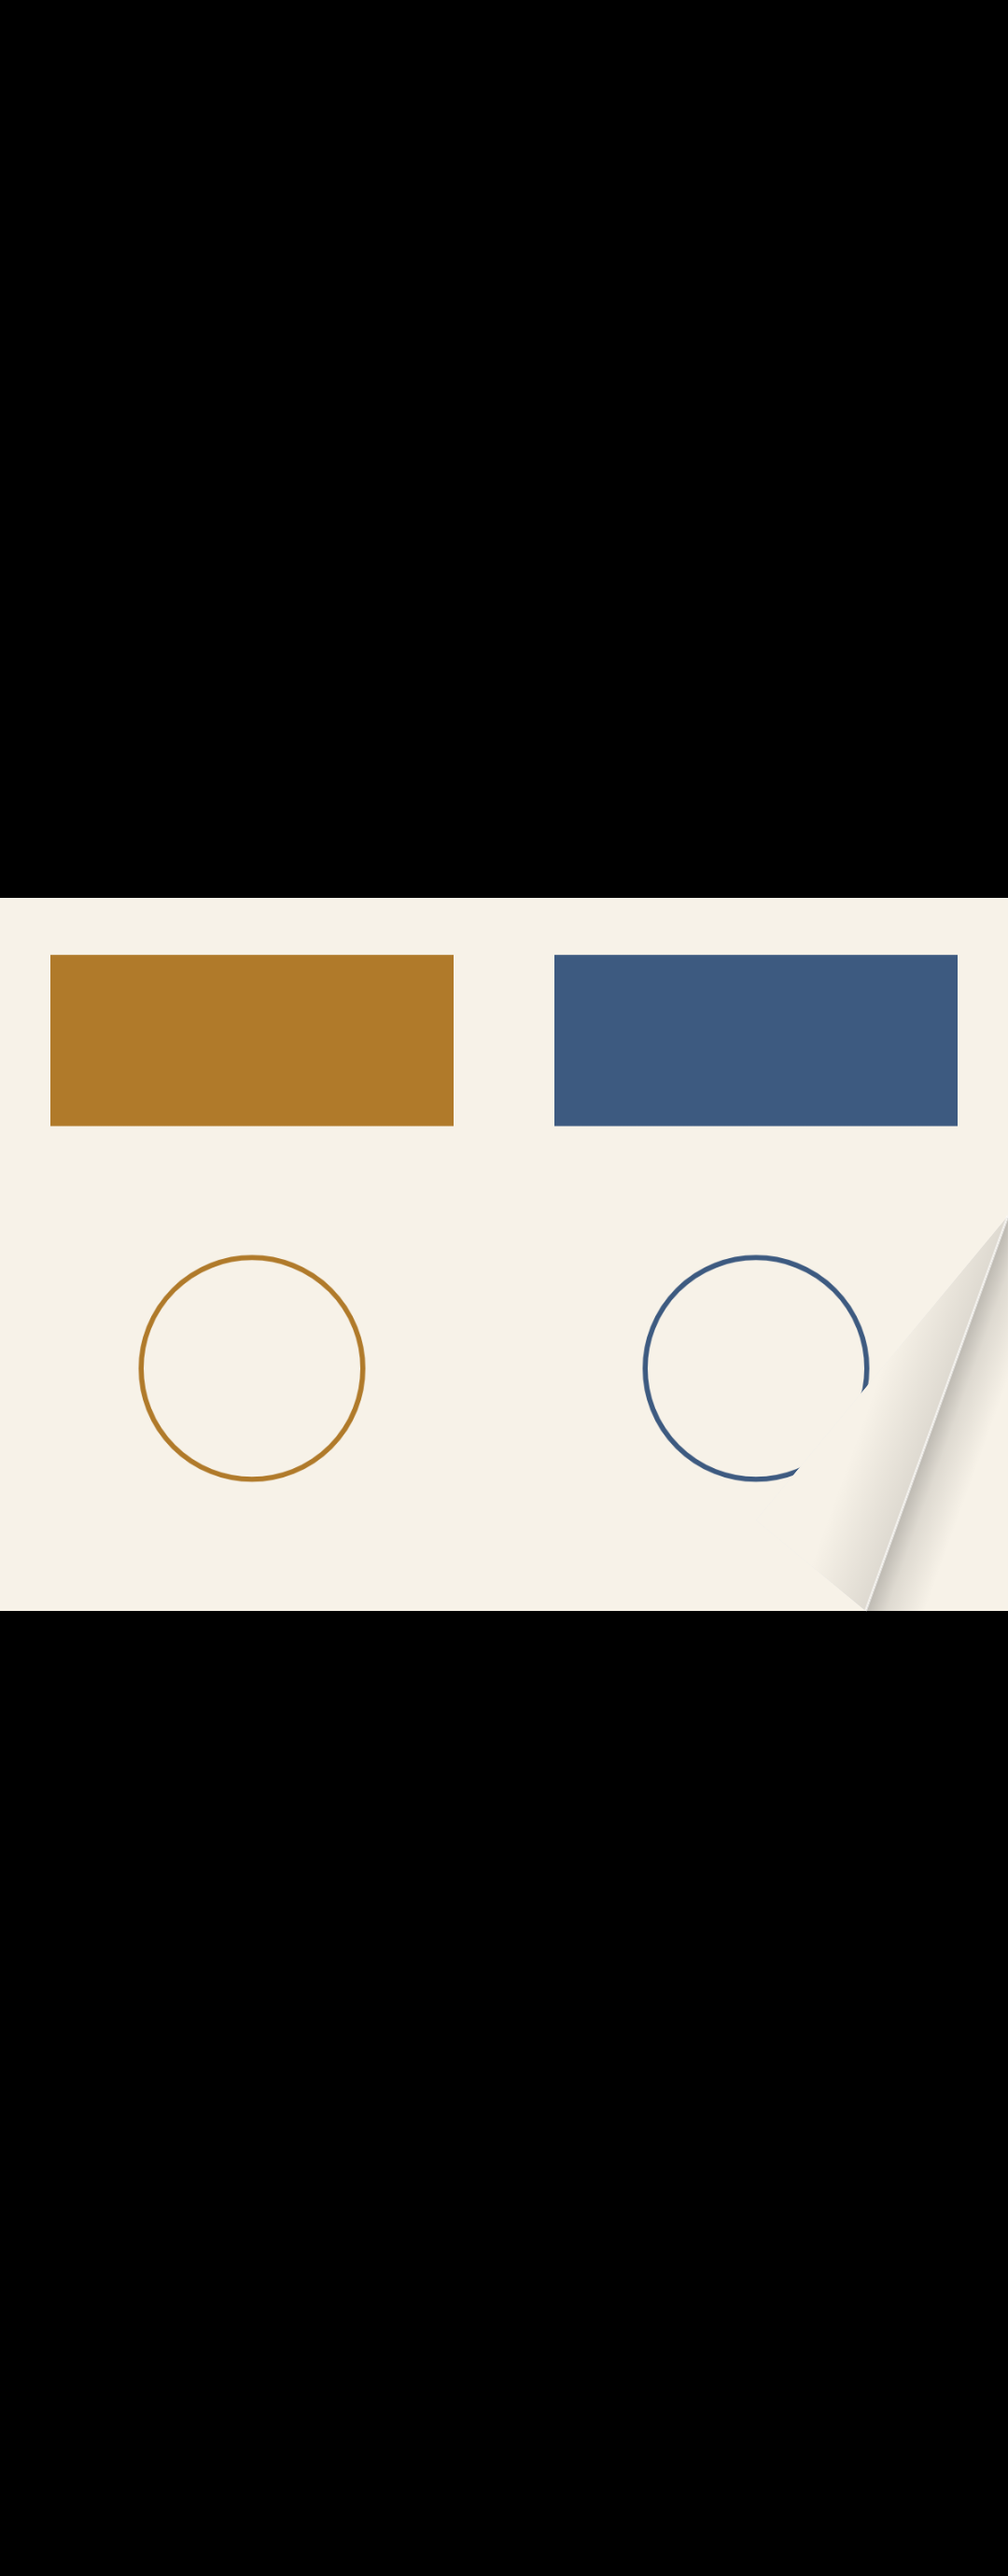
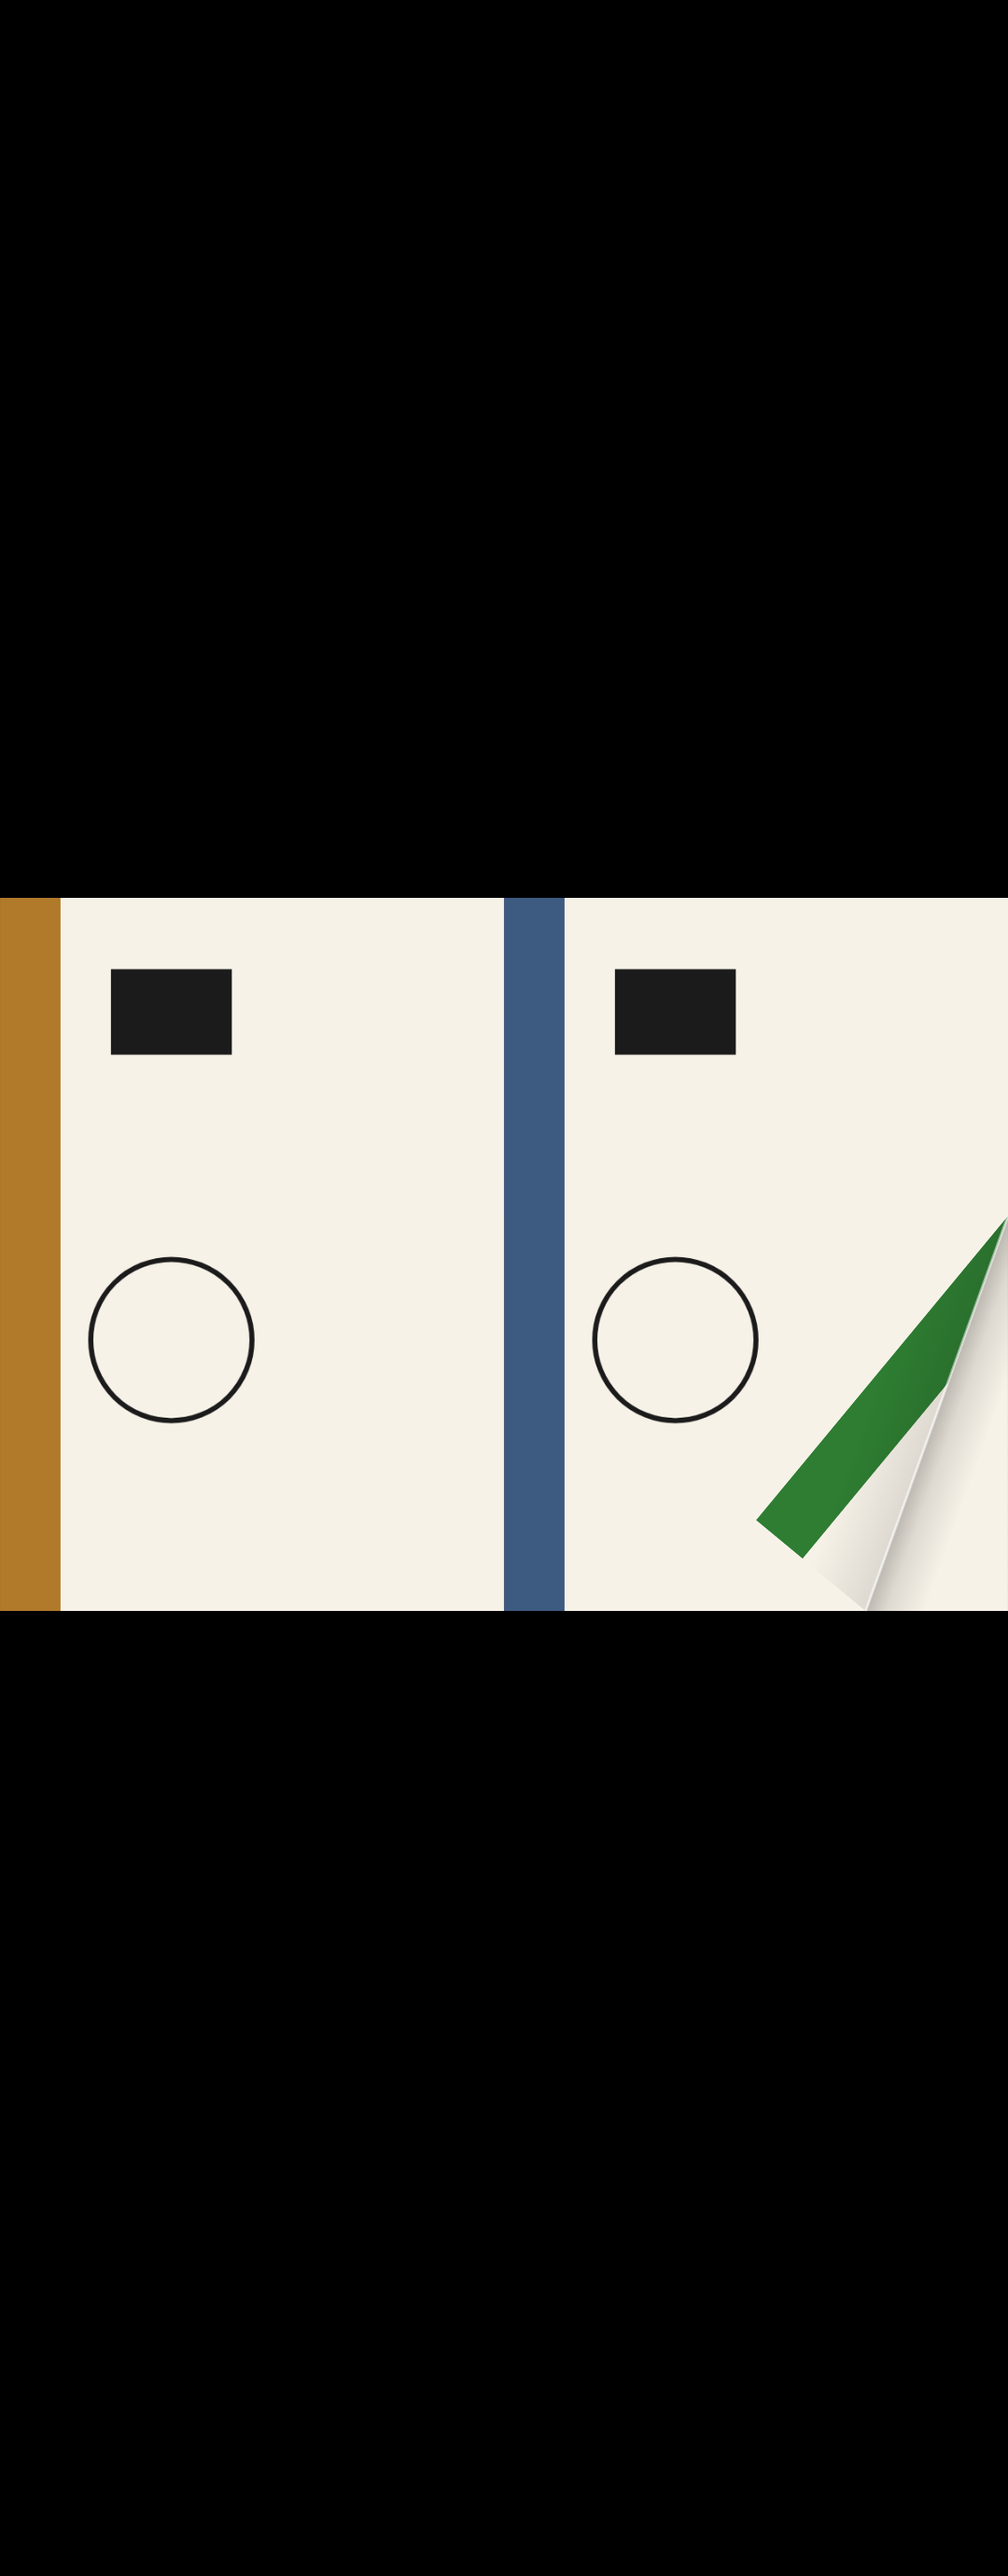
test(reader): capture the two-page curl over the real pager stack
The harness painted the current spread under the overlay itself, hiding the
swap of the still page, and its symmetric toy pages could not show a
mirrored back face. It now puts the current/target spreads in a real
HorizontalPager already on the target spread (as ReaderScreen is at p=0),
passes the current spread's other page as the still page, and marks every
synthetic page with a left-edge band, a top-left block and an off-centre
circle. Adds the p95 LTR/RTL captures for the upright back face.

diff --git a/app/src/test/java/org/parkjw/apps/pdfbook/screenshot/PageCurlTwoPageScreenshotsTest.kt b/app/src/test/java/org/parkjw/apps/pdfbook/screenshot/PageCurlTwoPageScreenshotsTest.kt
@@ -7,6 +7,8 @@ import androidx.compose.foundation.Canvas as ComposeCanvas
 import androidx.compose.foundation.background
 import androidx.compose.foundation.layout.BoxWithConstraints
 import androidx.compose.foundation.layout.fillMaxSize
+import androidx.compose.foundation.pager.HorizontalPager
+import androidx.compose.foundation.pager.rememberPagerState
 import androidx.compose.runtime.Composable
 import androidx.compose.runtime.getValue
 import androidx.compose.runtime.mutableStateOf
@@ -86,7 +88,7 @@ class PageCurlTwoPageScreenshotsTest {
         composeRule.waitForIdle()
 
         // LTR forward: the right sheet turns; the flap back face is the target's left page.
-        for (p in listOf(0.25f, 0.5f, 0.75f)) {
+        for (p in listOf(0.25f, 0.5f, 0.75f, 0.95f)) {
             composeRule.runOnIdle {
                 side = CurlSide.Right
                 progress = p
@@ -96,7 +98,7 @@ class PageCurlTwoPageScreenshotsTest {
         }
 
         // RTL forward: mirrored, the left sheet turns; the flap back face is the target's right page.
-        for (p in listOf(0.25f, 0.5f, 0.75f)) {
+        for (p in listOf(0.25f, 0.5f, 0.75f, 0.95f)) {
             composeRule.runOnIdle {
                 side = CurlSide.Left
                 progress = p
@@ -120,20 +122,39 @@ class PageCurlTwoPageScreenshotsTest {
             val canvas = curlCanvas(window, FoldPosture.Flat) ?: return@BoxWithConstraints
             val slots = listOf(canvas.left, canvas.right)
             val none = CropMargins()
-            val leftRect = pageDrawRect(currentLeft.width, currentLeft.height, none, slots[0], SlotAlignment.End, null)
-            val rightRect = pageDrawRect(currentRight.width, currentRight.height, none, slots[1], SlotAlignment.Start, null)
-            val rects = listOf(leftRect, rightRect)
-            val turning = if (side == CurlSide.Right) 1 else 0
-
-            ComposeCanvas(Modifier.matchParentSize()) {
-                drawPage(currentLeft, rects[0])
-                drawPage(currentRight, rects[1])
+            fun rects(left: Bitmap, right: Bitmap) = listOf(
+                pageDrawRect(left.width, left.height, none, slots[0], SlotAlignment.End, null),
+                pageDrawRect(right.width, right.height, none, slots[1], SlotAlignment.Start, null),
+            )
+            val currentRects = rects(currentLeft, currentRight)
+            val targetRects = rects(targetLeft, targetRight)
+            // The real stack: the reader has already scrolled its pager to the target spread
+            // when the turn animates, so the pager below sits on the target spread. Page 0 is
+            // the current spread; the capture would expose the swap if the still page were
+            // taken from the pager.
+            val pagerState = rememberPagerState(initialPage = 1) { 2 }
+            HorizontalPager(
+                state = pagerState,
+                modifier = Modifier.fillMaxSize(),
+                userScrollEnabled = false,
+            ) { index ->
+                ComposeCanvas(Modifier.fillMaxSize()) {
+                    if (index == 0) {
+                        drawPage(currentLeft, currentRects[0])
+                        drawPage(currentRight, currentRects[1])
+                    } else {
+                        drawPage(targetLeft, targetRects[0])
+                        drawPage(targetRight, targetRects[1])
+                    }
+                }
             }
-            val sheet = rects[turning]
-            val backFace = rects[1 - turning]
+            val turning = if (side == CurlSide.Right) 1 else 0
+            val sheet = currentRects[turning]
+            val backFace = targetRects[1 - turning]
             PageCurlOverlay(
                 front = if (turning == 1) currentRight else currentLeft,
                 back = if (turning == 1) targetRight else targetLeft,
+                still = if (turning == 1) currentLeft else currentRight,
                 progress = { progress },
                 side = side,
                 modifier = Modifier.fillMaxSize(),
@@ -158,26 +179,33 @@ class PageCurlTwoPageScreenshotsTest {
 
     private fun percent(p: Float): Int = (p * 100).roundToInt()
 
+    /**
+     * Left/right asymmetric page: a band down the left edge and a block in the top-left
+     * corner. A mirrored back face puts both on the right, so the capture can tell it apart.
+     */
     private fun syntheticPage(fill: Int, accent: Int): Bitmap {
         val bitmap = Bitmap.createBitmap(PAGE_WIDTH, PAGE_HEIGHT, Bitmap.Config.ARGB_8888)
         val canvas = Canvas(bitmap)
         canvas.drawColor(fill)
         val paint = Paint(Paint.ANTI_ALIAS_FLAG).apply { color = accent }
+        canvas.drawRect(0f, 0f, PAGE_WIDTH * 0.12f, PAGE_HEIGHT.toFloat(), paint)
+        paint.color = INK
         canvas.drawRect(
-            PAGE_WIDTH * 0.1f,
-            PAGE_HEIGHT * 0.08f,
-            PAGE_WIDTH * 0.9f,
-            PAGE_HEIGHT * 0.32f,
+            PAGE_WIDTH * 0.22f,
+            PAGE_HEIGHT * 0.1f,
+            PAGE_WIDTH * 0.46f,
+            PAGE_HEIGHT * 0.22f,
             paint,
         )
         paint.style = Paint.Style.STROKE
         paint.strokeWidth = 6f
-        canvas.drawCircle(PAGE_WIDTH / 2f, PAGE_HEIGHT * 0.66f, PAGE_WIDTH * 0.22f, paint)
+        canvas.drawCircle(PAGE_WIDTH * 0.34f, PAGE_HEIGHT * 0.62f, PAGE_WIDTH * 0.16f, paint)
         return bitmap
     }
 
     private companion object {
         const val PAGE_WIDTH = 600
         const val PAGE_HEIGHT = 849
+        const val INK = 0xFF1B1B1B.toInt()
     }
 }
